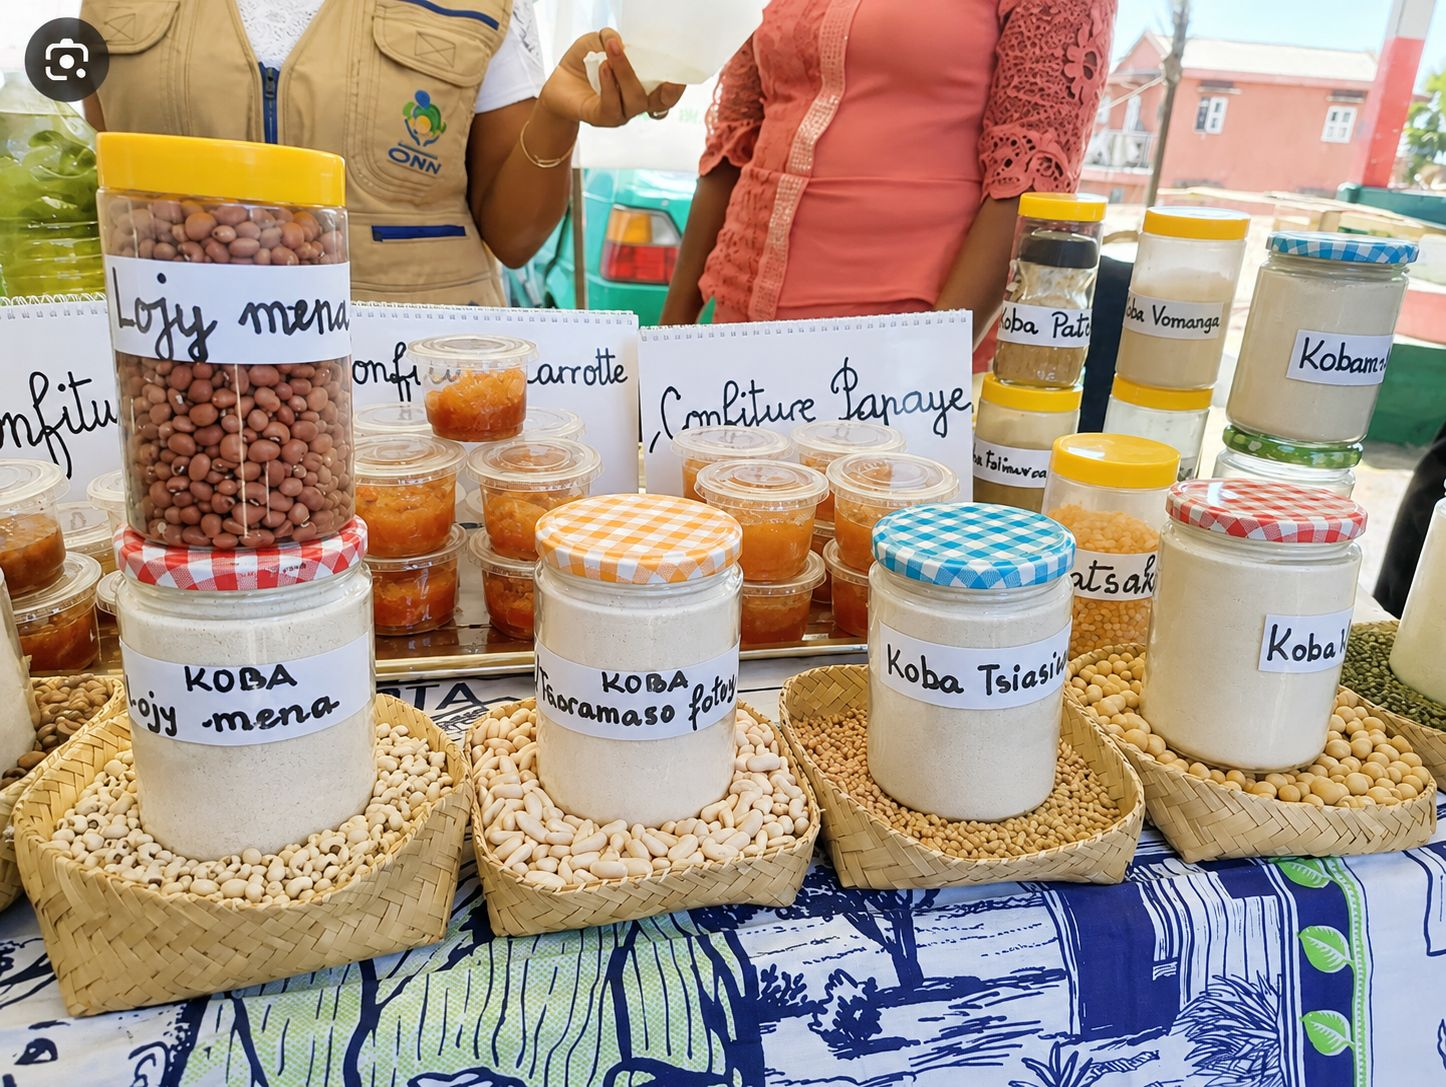
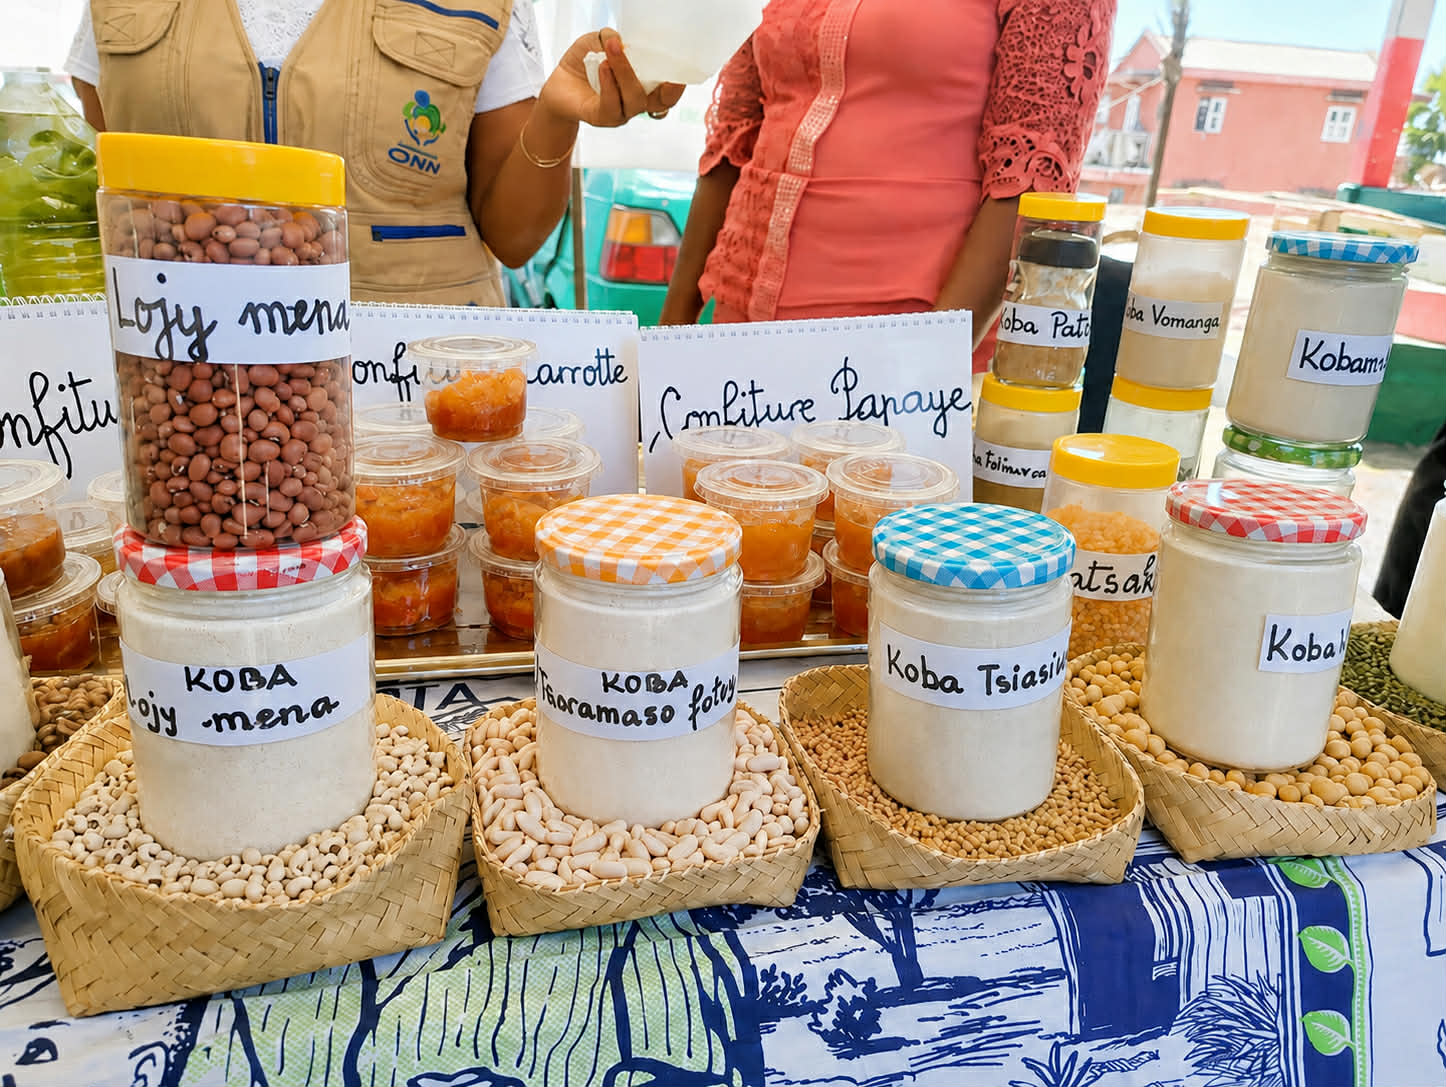
change done

diff --git a/index.html b/index.html
@@ -68,13 +68,10 @@
 
         <div class="about-content">
             <div class="about-text">
-                <h3>Objectif du projet</h3>
-                <p>Mis en œuvre dans le cadre des politiques nationales de développement économique et industriel, l’ODOF a pour objet de valoriser les ressources locales, de stimuler l’entrepreneuriat, de créer des emplois durables et de renforcer la transformation des produits nationaux. Il a pour but de contribuer à un développement économique inclusif et équilibré sur l’ensemble du territoire malgache.</p>
-                <br>
-                <h3>Notre mission</h3>
                 <p>Le Système National de Sélection ODOF (SNS-ODOF) est une plateforme numérique conçue pour accompagner le processus de recrutement et de sélection des Gestionnaires ODOF dans le cadre du programme One District One Factory (ODOF) à Madagascar.</p>
                 <p>Cette plateforme met à la disposition des candidats toutes les informations relatives aux appels à candidature, aux critères d'éligibilité ainsi qu'aux pièces constitutives du dossier de candidature. Elle permet également l’inscription et le dépôt des dossiers en ligne, offrant ainsi une procédure plus simple, rapide et accessible.</p>
                 <p>Le SNS-ODOF a pour mission de moderniser la gestion des candidatures en facilitant la soumission des dossiers, en renforçant la transparence du processus de sélection et en assurant la conservation sécurisée des archives numériques. À travers cette démarche, la plateforme contribue à une gestion plus efficace, fiable et centralisée des candidatures liées au programme ODOF.</p>
+                <p>Notre objectif est de rendre le processus de candidature plus accessible, plus transparent et plus performant, tout en garantissant une gestion rigoureuse des informations et des documents soumis par les candidats.</p>
             </div>
 
             <div class="about-gallery">
@@ -307,7 +304,7 @@
                         <input type="text" id="raison_sociale" name="raison_sociale" required>
                     </div>
 
-                    <div class="form-group">
+                   <div class="form-group">
                         <label for="forme_juridique">Forme juridique *</label>
                         <select id="forme_juridique" name="forme_juridique" required>
                             <option value="">Sélectionner...</option>
@@ -317,6 +314,12 @@
                             <option value="Association">Association à objet économique</option>
                             <option value="Autre">Autre</option>
                         </select>
+                    </div>
+
+                    <!-- Champ qui apparaît quand on sélectionne "Autre" -->
+                    <div class="form-group" id="forme_autre_input" style="display: none;">
+                        <label for="forme_autre_details">Précisez la forme juridique *</label>
+                        <input type="text" id="forme_autre_details" name="forme_autre_details" placeholder="Entrez la forme juridique">
                     </div>
 
                     <div class="form-group">
@@ -401,14 +404,19 @@
                         <textarea id="lieu_implantation" name="lieu_implantation" required></textarea>
                     </div>
 
-                    <div class="form-group">
-                        <label for="dans_district">Est-ce situé dans le district ? *</label>
-                        <select id="dans_district" name="dans_district" required>
-                            <option value="">Sélectionner...</option>
-                            <option value="Oui">Oui</option>
-                            <option value="Non">Non</option>
-                        </select>
-                    </div>
+                  <div class="form-group">
+                    <label for="dans_district">Est-ce situé dans le district ? *</label>
+                    <select id="dans_district" name="dans_district" required>
+                        <option value="">Sélectionner...</option>
+                        <option value="Oui">Oui</option>
+                        <option value="Non">Non</option>
+                    </select>
+                </div>
+
+                 <div class="form-group">
+                        <label for="fonction_justification">Si non, justification de l’ancrage territorial ou du projet d’implantation </label>
+                        <input type="text" id="fonction_justification" name="fonction_justification">
+                </div>
                 </div>
 
                 <!-- ÉTAPE 4: Projet -->
@@ -432,10 +440,90 @@
                         <label for="produits">Produits agricoles concernés *</label>
                         <textarea id="produits" name="produits" required></textarea>
                     </div>
+                    <div class="form-group">
+                        <label for="objectif_projet">Objectif du projet *</label>
+                        <textarea id="objectif_projet" name="objectif_projet" required></textarea>
+                    </div>
+                    <div class="form-group">
+                        <label for="desc_succincte">Description succincte du projet *</label>
+                        <textarea id="desc_succincte" name="desc_succincte" required></textarea>
+                    </div>
                 </div>
 
-                <!-- ÉTAPE 5: Capacité financière -->
+                 <!-- ÉTAPE 5: Approvisionnement en matière premières -->
                 <div class="form-step" id="step-5">
+                    <div class="form-group">
+                        <label for="partenaire_producteur">Partenaires producteurs (coopératives, associations, etc)</label>
+                        <textarea id="partenaire_producteur" name="partenaire_producteur" required></textarea>
+                    </div>
+
+                    <div class="form-group">
+                        <label>Nature des partenariats *</label>
+                        <div class="checkbox-group">
+                            <div class="checkbox-item">
+                                <input type="checkbox" name="nature_partenariat" value="Convention">
+                                <label>Convention</label>
+                            </div>
+                            <div class="checkbox-item">
+                                <input type="checkbox" name="nature_partenariat" value="Contrat">
+                                <label>Contrat</label>
+                            </div>
+                            <div class="checkbox-item">
+                                <input type="checkbox" name="nature_partenariat" value="Lettre d'engagement">
+                                <label>Lettre d'engagement</label>
+                            </div>
+                            <div class="checkbox-item">
+                                <input type="checkbox" name="nature_partenariat" value="Autre">
+                                <label>Autre</label>
+                            </div>
+                        </div>
+                    </div>
+                </div>
+
+                 <!-- ÉTAPE 6: Site d'exploitation -->
+                <div class="form-step" id="step-6">
+                    <div class="form-group">
+                        <label for="localisation_site">Localisation du site *</label>
+                        <textarea id="localisation_site" name="localisation_site" required></textarea>
+                    </div>
+                    <div class="form-group">
+                        <label>Statut du site *</label>
+                        <div class="checkbox-group">
+                            <div class="checkbox-item">
+                                <input type="checkbox" name="statut_site" value="Propriété">
+                                <label>Propriété</label>
+                            </div>
+                            <div class="checkbox-item">
+                                <input type="checkbox" name="statut_site" value="Bail">
+                                <label>Bail</label>
+                            </div>
+                            <div class="checkbox-item">
+                                <input type="checkbox" name="statut_site" value="Mise à disposition">
+                                <label>Mise à disposition</label>
+                            </div>
+                            <div class="checkbox-item">
+                                <input type="checkbox" name="statut_site" value="Donation">
+                                <label>Donation</label>
+                            </div>
+                            <div class="checkbox-item">
+                                <input type="checkbox" name="statut_site" value="Occupation autorisée">
+                                <label>Occupation autorisée</label>
+                            </div>
+                            <div class="checkbox-item">
+                                <input type="checkbox" name="statut_site" value="Autre">
+                                <label>Autre</label>
+                            </div>
+                        </div>
+                        <br>
+                         <div class="form-group">
+                            <label for="superficie">Superficie du site *</label>
+                            <input type="number" id="superficie" name="superficie" required>
+                        </div>
+                    </div>
+                </div>
+
+                <!-- ÉTAPE 7: Capacité financière -->
+                <div class="form-step" id="step-7">
                     <div class="form-group">
                         <label for="cout_projet">Coût total du projet (MGA) *</label>
                         <input type="number" id="cout_projet" name="cout_projet" required>
@@ -469,8 +557,8 @@
                     </div>
                 </div>
 
-                <!-- ÉTAPE 6: Capacité technique -->
-                <div class="form-step" id="step-6">
+                <!-- ÉTAPE 8: Capacité technique -->
+                <div class="form-step" id="step-8">
                     <div class="form-group">
                         <label for="experience_transformation">Avez-vous une expérience en transformation ? *</label>
                         <select id="experience_transformation" name="experience_transformation" required>
@@ -489,6 +577,10 @@
                         <label for="personnel_technique">Personnel technique disponible *</label>
                         <textarea id="personnel_technique" name="personnel_technique" required></textarea>
                     </div>
+                    <div class="form-group">
+                        <label for="accompagnement_technique">Accompagnement technique prévu *</label>
+                        <textarea id="accompagnement_technique" name="accompagnement_technique" required></textarea>
+                    </div>
 
                     <div class="form-group">
                         <label for="source_energie">Source d'énergie principale *</label>
@@ -501,10 +593,21 @@
                             <option value="Autre">Autre</option>
                         </select>
                     </div>
+                    <div class="form-group">
+                        <label for="source_eau">Source d'eau *</label>
+                        <select id="source_eau" name="source_eau" required>
+                            <option value="">Sélectionner...</option>
+                            <option value="JIRAMA">JIRAMA</option>
+                            <option value="Forage">Forage</option>
+                            <option value="Puits">Puits</option>
+                            <option value="Réserve d'eau">Réserve d'eau</option>
+                            <option value="Autre">Autre</option>
+                        </select>
+                    </div>
                 </div>
 
-                <!-- ÉTAPE 7: Impacts et finalisation -->
-                <div class="form-step" id="step-7">
+                <!-- ÉTAPE 9: Impacts et finalisation -->
+                <div class="form-step" id="step-9">
                     <div class="form-group">
                         <label for="emplois_permanents">Emplois permanents prévus *</label>
                         <input type="number" id="emplois_permanents" name="emplois_permanents" required>
@@ -518,6 +621,10 @@
                     <div class="form-group">
                         <label for="impacts_economie">Impacts attendus sur l'économie locale *</label>
                         <textarea id="impacts_economie" name="impacts_economie" required></textarea>
+                    </div>
+                    <div class="form-group">
+                        <label for="impacts_producteur">Impacts attendus sur les producteurs locaux *</label>
+                        <textarea id="impacts_producteur" name="impacts_producteur" required></textarea>
                     </div>
 
                     <div class="form-group">
@@ -558,7 +665,7 @@
 
             <div class="footer-section">
                 <h4>Nous contacter</h4>
-                <p>Email: <a href="mailto:[email redacted]">[email redacted]</a></p>
+                <p>Email: <a href="mailto:[email redacted]">[email redacted]</a></p>
                 <p>Tél: [phone redacted]</p>
                 <p>Adresse: Antananarivo, Madagascar</p>
             </div>

diff --git a/javascript.js b/javascript.js
@@ -1,6 +1,6 @@
  // Variables globales
         let currentStep = 1;
-        const totalSteps = 7;
+        const totalSteps = 9;
 
         // Navigation de la navbar
         window.addEventListener('scroll', function() {
@@ -78,6 +78,8 @@
                 'Identification du candidat',
                 'Informations de contact',
                 'Représentant légal',
+                'Approvisionnement en matière premières',
+                'Site d\'exploitation',
                 'Présentation du projet',
                 'Capacité financière',
                 'Capacité technique',
@@ -144,3 +146,17 @@
 
         // Initialisation
         showStep(1);
+
+        document.getElementById('forme_juridique').addEventListener('change', function() {
+            const autreDiv = document.getElementById('forme_autre_input');
+            const autreInput = document.getElementById('forme_autre_details');
+            
+            if (this.value === 'Autre') {
+                autreDiv.style.display = 'block';
+                autreInput.required = true;
+            } else {
+                autreDiv.style.display = 'none';
+                autreInput.required = false;
+                autreInput.value = ''; // Vider le champ
+            }
+        });

diff --git a/style.css b/style.css
@@ -83,6 +83,7 @@
             font-weight: 700;
             transition: color 0.3s ease;
             position: relative;
+            margin: 0px 1em;
         }
 
         nav.scrolled .nav-links a {